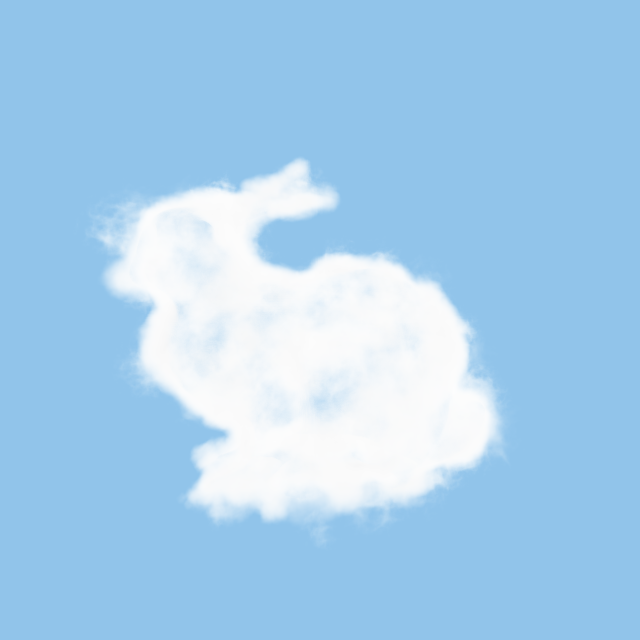
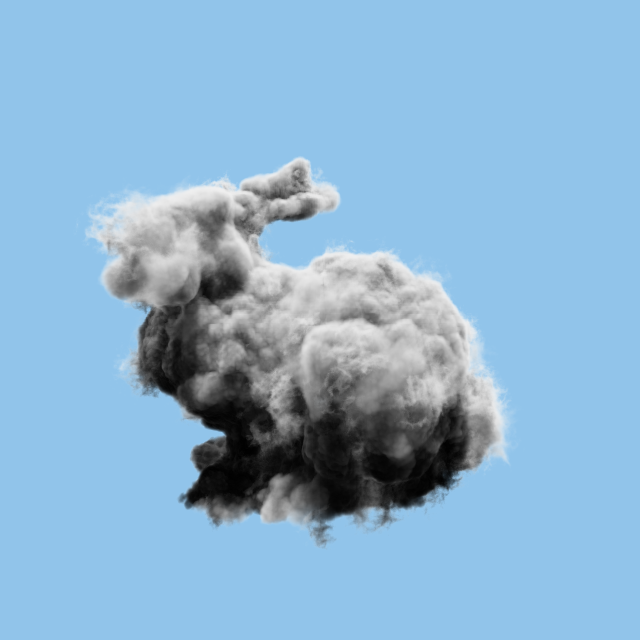
simple nanoVDB renderer done

Changed region(s): [[0.125, 0.25, 0.8125, 0.875]]

diff --git a/VolumeRenderer/RayTracer/renderers/RendererNanoVDBSimple.cpp b/VolumeRenderer/RayTracer/renderers/RendererNanoVDBSimple.cpp
@@ -5,6 +5,7 @@
 #include "../nanovdb/util/Primitives.h"
 #include "../nanovdb/fog_example/common.h"
 #include <random>
+#include "../Utils/PhaseFunction.h"
 
 Vec3f RendererNanoVDBSimple::castRay(HandleIntersectionData* data, uint32_t depth, uint32_t reboundFactor)
 {
@@ -14,8 +15,13 @@ Vec3f RendererNanoVDBSimple::castRay(HandleIntersectionData* data, uint32_t dept
 	using Vec3T = nanovdb::Vec3<RealT>;
 	using RayT = nanovdb::Ray<RealT>;
 
-	auto width = data->options.width;
-	auto height = data->options.height;
+	Vec3f light_dir{ 0, 1, 0 };
+	Vec3f light_color{ 12, 12, 12 };
+
+	// heyney-greenstein asymmetry factor of the phase function
+	float g = 0.0;
+
+	auto rayDirection = Utils::normalize(data->rayDirection);
 
 	nanovdb::GridHandle<nanovdb::HostBuffer>& handle = data->sceneInfo->nanovdbGridHandle;
 
@@ -46,6 +52,8 @@ Vec3f RendererNanoVDBSimple::castRay(HandleIntersectionData* data, uint32_t dept
 	if (iRay.clip(treeIndexBbox) == false) {		
 		return Vec3f(data->options.backgroundColor);
 	}
+
+	float density = 0.5f;
 	// integrate...
 	const float step_size = 0.5f;
 	//transparency
@@ -56,7 +64,7 @@ Vec3f RendererNanoVDBSimple::castRay(HandleIntersectionData* data, uint32_t dept
 	for (float t = iRay.t0(); t < iRay.t1(); t += step_size) {
 		//cast light ray
 
-		float sigma = acc.getValue(CoordT::Floor(iRay(t))) * 0.1f;
+		float sigma = acc.getValue(CoordT::Floor(iRay(t))) * density;
 
 		//current sample transparency
 		float sampleAttenuation = exp(-step_size * sigma);
@@ -64,17 +72,98 @@ Vec3f RendererNanoVDBSimple::castRay(HandleIntersectionData* data, uint32_t dept
 		// attenuate volume object transparency by current sample transmission value
 		transmittance *= sampleAttenuation;
 
-		if (sigma > 0) {
-			result +=
-				//light_color *										//light color
-				//light_attenuation *									// light ray transmission value
-				//density *											// volume density at the sample position
-				sigma *											// scattering coefficient
-				//PhaseFunction::heyney_greenstein(g, cos_theta) *	// phase function
-				transmittance *										// ray current transmission value
-				step_size;
+		//prepare light ray
+		auto rayWorldPosition = h_grid->indexToWorldF(iRay(t));		
+		data->rayDirection = light_dir;
+		data->rayOrigin = Vec3f(rayWorldPosition[0], rayWorldPosition[1], rayWorldPosition[2]);;
+
+		if (sigma > 0){	
+			//in shadow
+			if (castLightRay(data)) {
+				float tau = 0;
+
+				float light_step_size = step_size * 20.0f;
+				//auto distanceRayLightToExitInVolume = data->tFar;
+				auto num_steps_light = std::ceil(data->nanoVDBRay.t1() / light_step_size);
+
+				for (size_t nl = 0; nl < num_steps_light; ++nl) {
+					float tLight = light_step_size * (nl + 0.5);
+					//Vec3f samplePosLight = samplePosition + tLight * light_dir;
+					tau += acc.getValue(CoordT::Floor(data->nanoVDBRay(data->nanoVDBRay.t0() + tLight))) * density; //PerlinNoiseSampler::getInstance()->eval_density(samplePosLight);
+				}
+
+				float cos_theta = Utils::dotProduct(rayDirection, light_dir);
+				float light_attenuation = exp(-tau * light_step_size * sigma);
+
+				result +=
+					light_color *										//light color
+					light_attenuation *									// light ray transmission value
+					//density *											// volume density at the sample position
+					sigma *												// scattering coefficient
+					PhaseFunction::heyney_greenstein(g, cos_theta) *	// phase function
+					transmittance *										// ray current transmission value
+					step_size;
+			}
+			//direct path to light
+			else {
+				result +=
+					light_color *										//light color
+					//light_attenuation *								// light ray transmission value
+					//density *											// volume density at the sample position
+					sigma *												// scattering coefficient
+					//PhaseFunction::heyney_greenstein(g, cos_theta) *	// phase function
+					transmittance *										// ray current transmission value
+					step_size;
+			}
 		}		
 	}
 
 	return Vec3f(result + transmittance * data->options.backgroundColor);
+}
+
+/// <summary>
+/// data->rayOrigin is already in grid index-space here 
+/// </summary>
+/// <param name="data"></param>
+/// <returns></returns>
+bool RendererNanoVDBSimple::castLightRay(HandleIntersectionData* data) {
+	using GridT = nanovdb::FloatGrid;
+	using CoordT = nanovdb::Coord;
+	using RealT = float;
+	using Vec3T = nanovdb::Vec3<RealT>;
+	using RayT = nanovdb::Ray<RealT>;
+
+	auto rayDirection = Utils::normalize(data->rayDirection);
+
+	nanovdb::GridHandle<nanovdb::HostBuffer>& handle = data->sceneInfo->nanovdbGridHandle;
+
+	auto* h_grid = handle.grid<float>();
+	if (!h_grid)
+		throw std::runtime_error("GridHandle does not contain a valid host grid");
+
+	float              wBBoxDimZ = (float)h_grid->worldBBox().dim()[2] * 2;
+	Vec3T              wBBoxCenter = Vec3T(h_grid->worldBBox().min() + h_grid->worldBBox().dim() * 0.5f);
+	nanovdb::CoordBBox treeIndexBbox = h_grid->tree().bbox();
+
+	RayGenOp<Vec3T> rayGenOp(wBBoxDimZ, wBBoxCenter);
+	CompositeOp     compositeOp;
+
+	// get an accessor.
+	auto acc = h_grid->tree().getAccessor();
+
+	Vec3T rayEye = { data->rayOrigin.x, data->rayOrigin.y, data->rayOrigin.z };
+	Vec3T rayDir = { data->rayDirection.x, data->rayDirection.y, data->rayDirection.z };
+	// generate ray.
+	RayT wRay(rayEye, rayDir);
+	// transform the ray to the grid's index-space.
+	RayT iRay = wRay.worldToIndexF(*h_grid);
+	// clip to bounds.
+	if (iRay.clip(treeIndexBbox) == false) {
+		return false;
+	}
+
+	//data->tFar = iRay.t1();
+	data->nanoVDBRay = iRay;
+
+	return true;
 }

diff --git a/VolumeRenderer/RayTracer/SceneRenderer.cpp b/VolumeRenderer/RayTracer/SceneRenderer.cpp
@@ -20,7 +20,7 @@ void SceneRenderer::RenderScene(Options options)
 	BaseRenderer* renderer = RendererFactory::GetRenderer(options.renderer);
 
 	renderer->render(options, sceneInfo);
-	//Renderer::renderPixel(320, 345, options, sceneInfo);
+	//renderer->renderPixel(300, 350, options, sceneInfo);
 
 	/* Though not strictly necessary in this example, you should
 	 * always make sure to release resources allocated through Embree. */

diff --git a/VolumeRenderer/RayTracer/renderers/RendererScratchPixel4.cpp b/VolumeRenderer/RayTracer/renderers/RendererScratchPixel4.cpp
@@ -109,6 +109,7 @@ Vec3f RendererScratchPixel4::handleIntersection(HandleIntersectionData *data, ui
 				// attenuate volume object transparency by current sample transmission value
 				transparency *= sampleAttenuation;
 
+				//prepare light ray
 				data->rayDirection = light_dir;
 				data->rayOrigin = samplePosition + data->rayDirection * 0.001;				
 				// In-Scattering. Find the distance traveled by light through 

diff --git a/VolumeRenderer/RayTracer/IntersectionHandlers/BaseIntersectionHandler.h b/VolumeRenderer/RayTracer/IntersectionHandlers/BaseIntersectionHandler.h
@@ -3,6 +3,7 @@
 #define VOLUMERENDERER_BASEINTERSECTIONHANDLER
 
 #include "..\Utils\Types.h"
+#include "..\nanovdb\util\Ray.h"
 
 class HandleIntersectionData {
 public:
@@ -28,6 +29,8 @@ public:
     Vec3f throughput;
     //diffuse
     Vec3f L_total_diffuse;
+        
+    nanovdb::Ray<float> nanoVDBRay;
 };
 
 //class BaseIntersectionHandler

diff --git a/VolumeRenderer/RayTracer/renderers/RendererNanoVDBSimple.h b/VolumeRenderer/RayTracer/renderers/RendererNanoVDBSimple.h
@@ -24,6 +24,7 @@ class RendererNanoVDBSimple : public BaseRenderer
 {
 public:			
 	virtual Vec3f castRay(HandleIntersectionData* data, uint32_t depth, uint32_t reboundFactor);
+	bool castLightRay(HandleIntersectionData* data);
 };
 
 #endif

diff --git a/VolumeRenderer/RayTracer/Utils/Types.h b/VolumeRenderer/RayTracer/Utils/Types.h
@@ -118,9 +118,4 @@ struct SceneInfo {
 	nanovdb::GridHandle<nanovdb::HostBuffer> nanovdbGridHandle;
 };
 
-//struct PhotonMap {
-//	PointCould* cloud;
-//	std::vector<PhotonData> data;
-//};
-
 #endif // !RAYTRACER_TYPES
